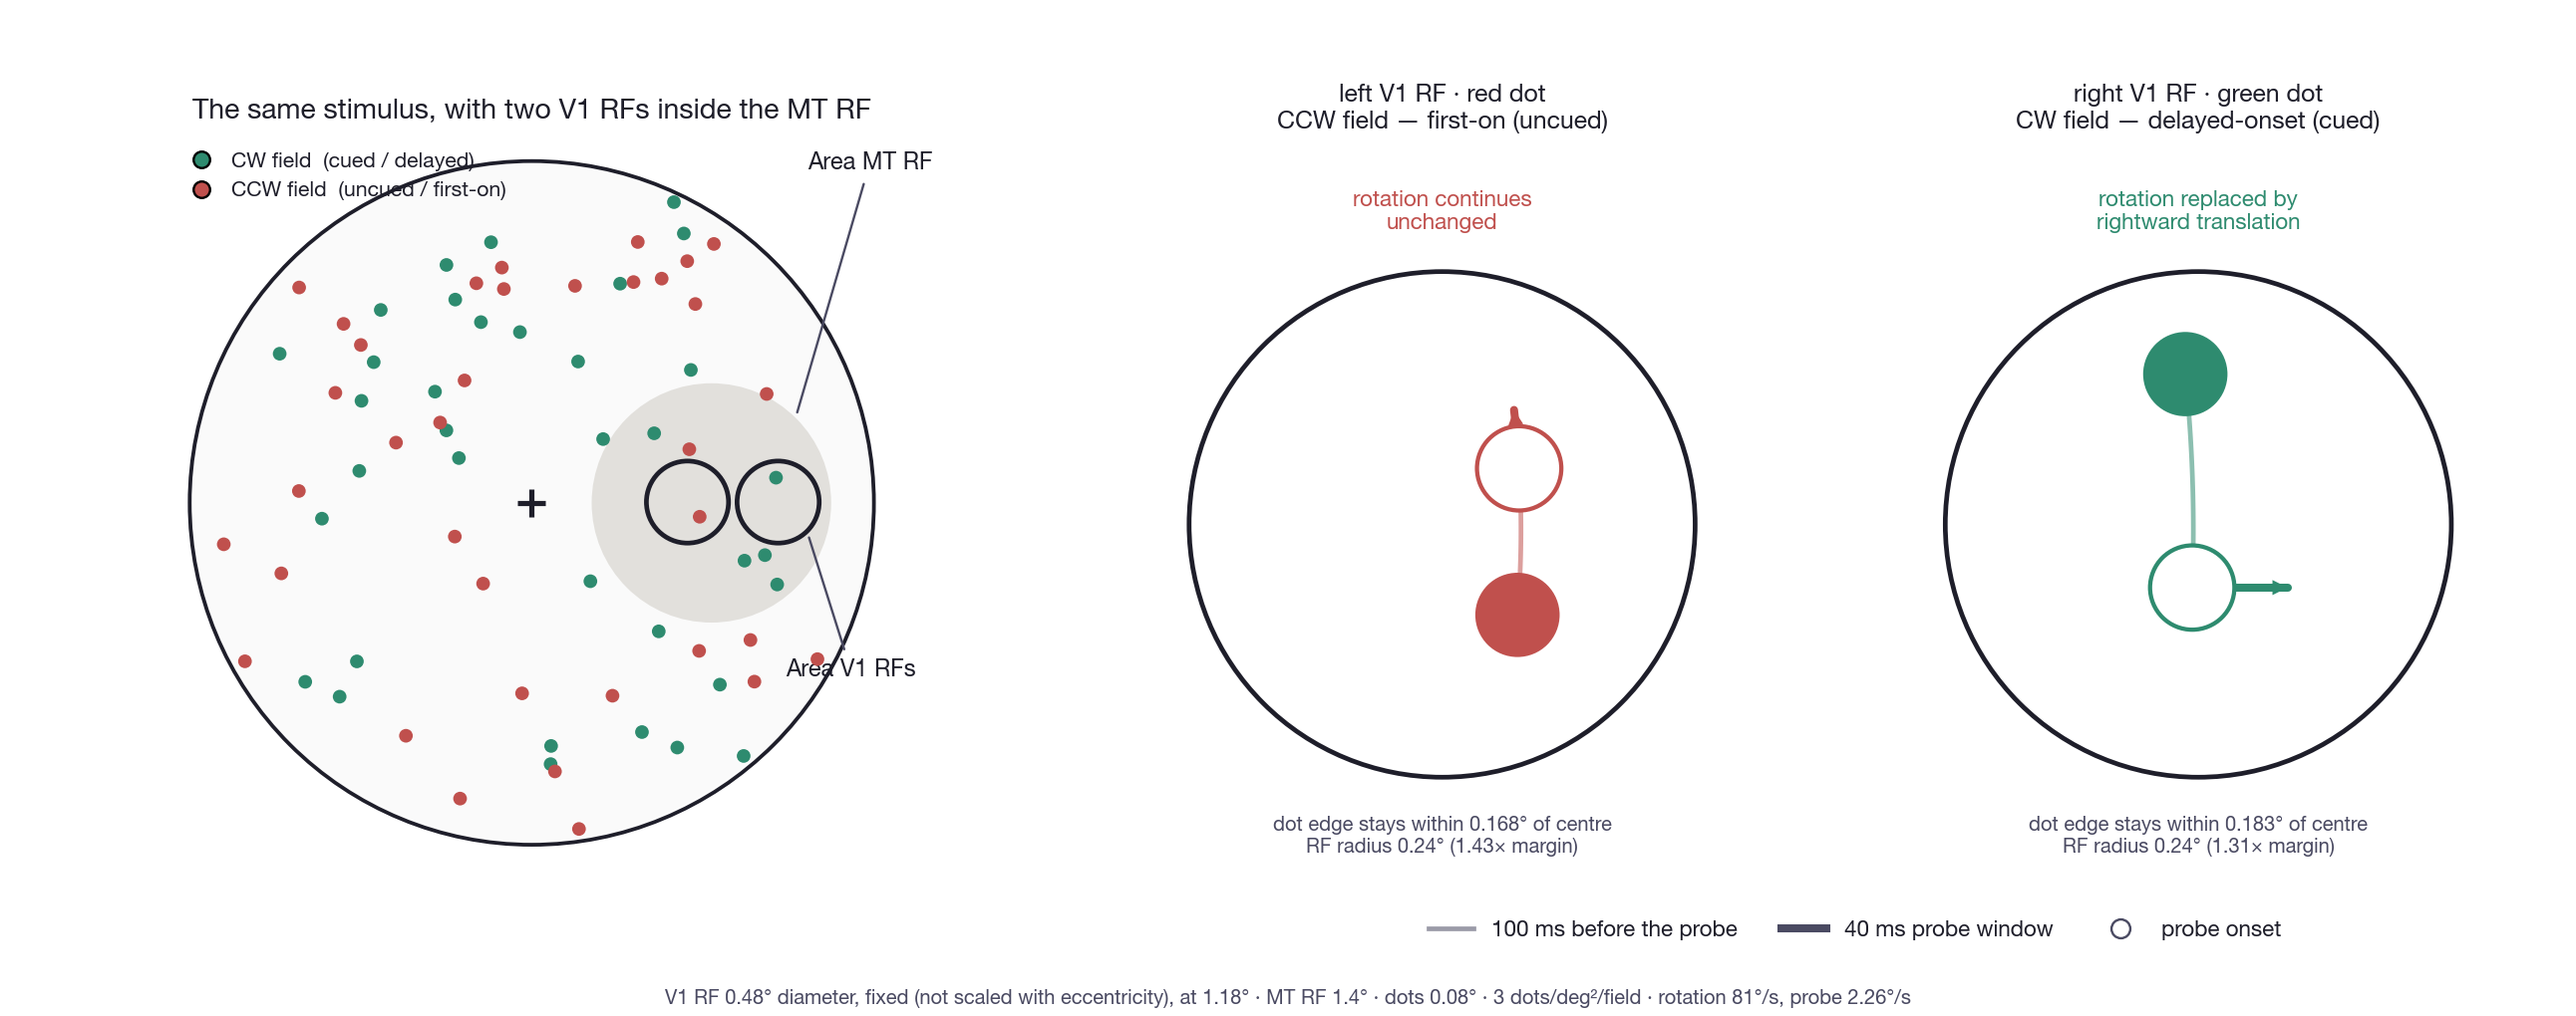
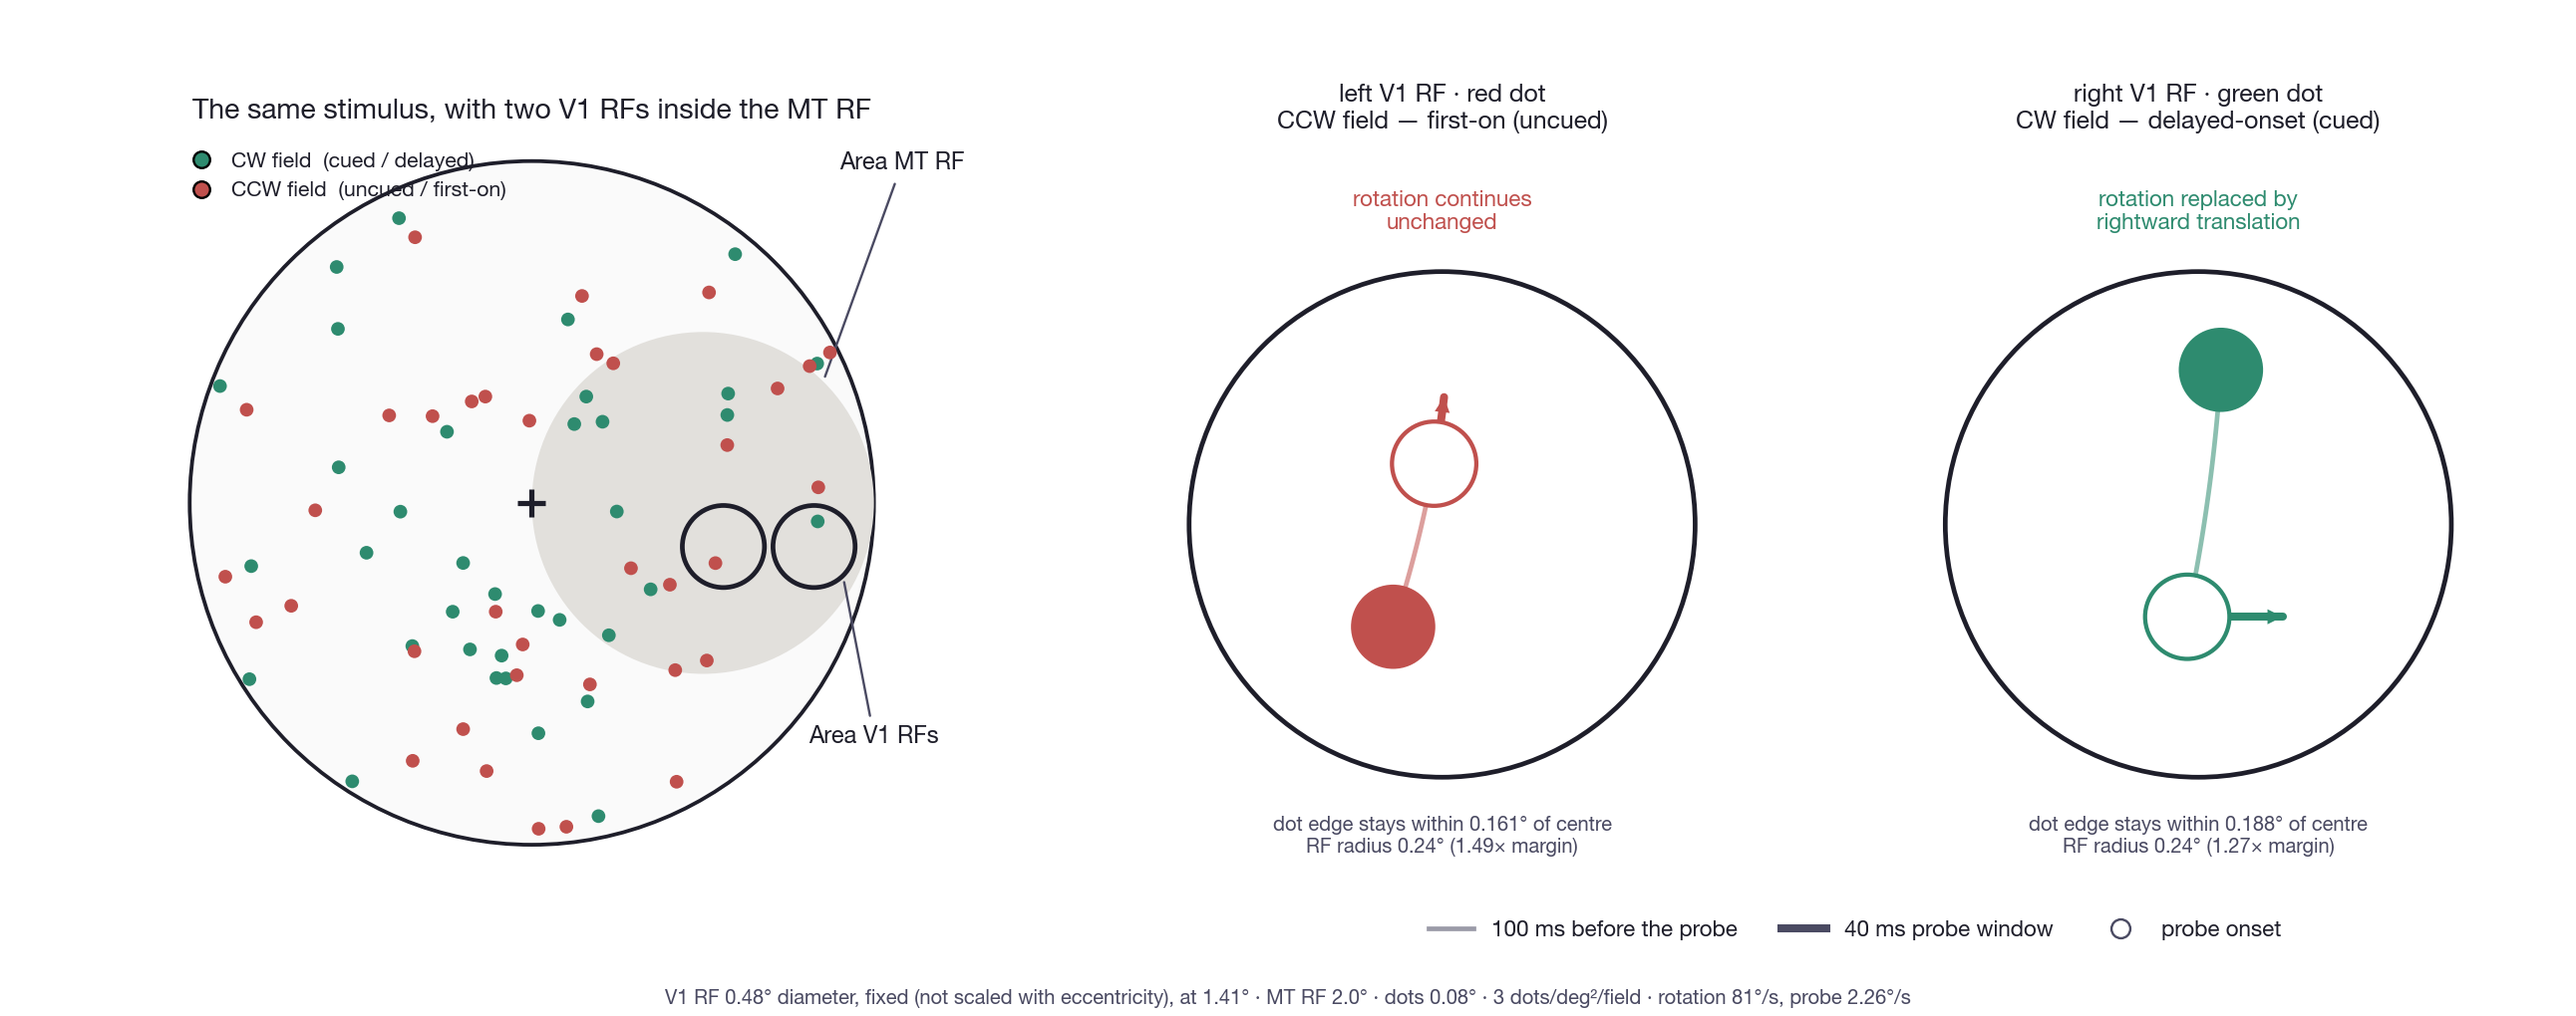
Bigger MT RF at the model's own operating point; balance the two surfaces in it
GS: make the MT RF bigger — not unrealistic — and make the numbers of red and
green dots inside it about the same. Density unchanged.

MT RF 1.4 -> 2.0 deg diameter, centre 1.05 -> 1.0 deg. Not picked for the page:
this is the MODEL'S OWN operating point. pointset/logs/HANDOFF_2026-07-27.md —
"GS chose a 2 deg square RF at 1 deg eccentricity, which deliberately does NOT
obey MT RF ~ eccentricity — a 2 deg RF at 2 deg ecc would be half off the S&B
display", and it notes "RF size is expected to be tweaked from here". The general
rule quoted in CORRECTIONS_REGISTER F9 is MT RF diameter ~ eccentricity, which at
1 deg would give only 1 deg. At 2 deg the RF is tangent to the aperture edge.

NEW MT_BALANCE — max |n_green - n_red| inside the MT RF. Set to 1, not 0: exact
equality is over-constrained once combined with the whole-dot purity test and the
arc-length floor below (no layout in 500 seeds satisfies all four). The chosen
layout comes out 9/9 regardless.

NEW MIN_ARC_DOTS — the pre-probe rotation arc must be at least 2 dot-widths long.
Tangential speed goes as eccentricity, so this is really a floor on how far out
the pair may sit. Without it the search moved inward to 0.85 deg where 100 ms of
rotation spans 0.120 deg against an 0.08 deg dot — 1.5 dot-widths, and the red
blow-up degenerated to two overlapping circles with no visible path. At 1.41 deg
it is 2.5 dot-widths and reads properly.

Net effect of the larger MT RF: _PLAY (how far the pair may stray and still sit
[…]

diff --git a/Agents/Modeling/sb2010/ps_stimulus_common.py b/Agents/Modeling/sb2010/ps_stimulus_common.py
@@ -66,8 +66,15 @@ RF_R_DEG     = SIGMA_DEG
 _SEP         = RF_DIAM_DEG + RF_GAP_DEG
 
 # ── the MT RF: off to one side of fixation, as in fig_modelI_stimulus ──
-MT_ECC_DEG   = 1.05
-MT_R_DEG     = 0.70                 # 35% of the aperture radius, matching fig_modelI
+# Size and position are the MODEL'S OWN operating point, not chosen for the page.
+# pointset/logs/HANDOFF_2026-07-27.md: "GS chose a 2 deg square RF at 1 deg
+# eccentricity, which deliberately does NOT obey MT RF ~ eccentricity — a 2 deg RF
+# at 2 deg ecc would be half off the S&B display." The general rule quoted in
+# CORRECTIONS_REGISTER F9 is MT RF diameter ~ eccentricity, which at 1 deg would
+# give only 1 deg; the model uses 2 deg so the patch sits inside the dot annulus.
+# Note that log also says "RF size is expected to be tweaked from here".
+MT_ECC_DEG   = 1.0
+MT_R_DEG     = 1.0                  # 2 deg diameter — tangent to the aperture edge
 MT_C         = (MT_ECC_DEG, 0.0)
 
 # ── motion ──
@@ -78,18 +85,29 @@ TRANS_MS     = 40.0                 # parameters.T_TRANS (3 frames @ 75 Hz)
 TRANSLATING_FIELD = "cued"          # "cued" (green) or "uncued" (red)
 
 # ── the search ──
-SEARCH_SEEDS  = range(1, 600)
+SEARCH_SEEDS  = range(1, 2500)
 SEARCH_FRAMES = 21
 SEARCH_STEP   = 0.04
 _PLAY         = MT_R_DEG - _SEP / 2 - RF_R_DEG   # both V1 RFs stay inside the MT RF
-GOOD_ENOUGH   = 1.30
-MT_MIN_DOTS   = 7                   # the SAME layout feeds Figure 2's MT-RF blow-up,
-                                    # so reject seeds that leave that panel empty.
-                                    # This trades against how well centred the V1
-                                    # pair is; measured over 599 seeds:
-                                    #   min 0 -> best margin 1.40x, but 3 dots
-                                    #   min 7 -> 1.31x with 7 dots   <- the knee
-                                    #   min 8 -> 1.10x with 9 dots
+GOOD_ENOUGH   = 1.40   # never reached in practice: search all seeds, take best
+MIN_ARC_DOTS  = 2.0                 # the pre-probe rotation arc must be at least
+                                    # this many dot-widths long, or the blow-up
+                                    # shows a dot with no visible path. Tangential
+                                    # speed goes as eccentricity, so this is a floor
+                                    # on how far out the pair may sit:
+                                    #   0.85 deg -> 1.5 dot-widths (too short)
+                                    #   1.20 deg -> 2.1            (legible)
+MT_BALANCE    = 1                   # max |n_green - n_red| inside the MT RF (GS:
+                                    # roughly equal numbers of each). Exact equality
+                                    # (0) is over-constrained once combined with the
+                                    # whole-dot purity test and the arc-length floor
+                                    # — no layout in 500 seeds satisfies all four.
+                                    # At 1 the chosen layout happens to come out 9/9
+                                    # anyway.
+MT_MIN_DOTS   = 12                  # the SAME layout feeds Figure 2's MT-RF blow-up,
+                                    # so reject seeds that leave that panel thin.
+                                    # At the 2 deg MT RF the mean over 399 seeds is
+                                    # 17.8 dots, range 8-29.
 
 
 # ═══════════════════════════════════════════════════════════ geometry ══
@@ -163,15 +181,22 @@ def find_pure_pair(seeds=SEARCH_SEEDS, whole_dot=True):
         rng = np.random.default_rng(seed)
         A = _field(N_DOTS, rng)                     # red, CCW, uncued
         B = _field(N_DOTS, rng)                     # green, CW, cued
-        # cheap reject first: this layout also has to populate Figure 2's blow-up
-        n_mt = int((np.hypot(*(np.vstack([A, B]) - np.array(MT_C)).T)
-                    < MT_R_DEG).sum())
-        if n_mt < MT_MIN_DOTS:
+        # Cheap rejects first — this layout also has to serve Figure 2's blow-up:
+        #   enough dots in the MT RF to populate that panel, AND
+        #   roughly equal numbers of the two surfaces in it, so the blow-up does
+        #   not read as one field dominating when neither does (GS).
+        nA = int((np.hypot(*(A - np.array(MT_C)).T) < MT_R_DEG).sum())
+        nB = int((np.hypot(*(B - np.array(MT_C)).T) < MT_R_DEG).sum())
+        if nA + nB < MT_MIN_DOTS or abs(nA - nB) > MT_BALANCE:
             continue
         PA = [_positions_at(A, "CCW", trA, t) for t in ts]
         PB = [_positions_at(B, "CW", trB, t) for t in ts]
         for dx, dy in offs:
             cx, cy = MT_C[0] + dx, MT_C[1] + dy
+            # far enough out that 100 ms of rotation is a visible arc, not a smudge
+            if np.radians(OMEGA_DEG_S) * np.hypot(cx, cy) * PRE_MS / 1000.0 \
+                    < MIN_ARC_DOTS * DOT_DIAM_DEG:
+                continue
             Lc = np.array([cx - _SEP / 2, cy]); Rc = np.array([cx + _SEP / 2, cy])
             inAL = [set(np.where(np.hypot(*(pa - Lc).T) < r_in)[0]) for pa in PA]
             if any(len(s_) != 1 for s_ in inAL): continue
